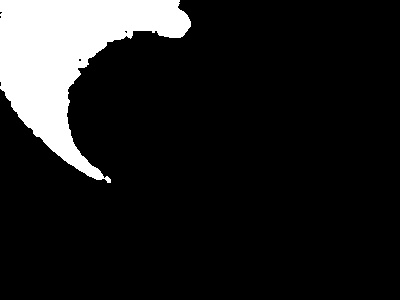
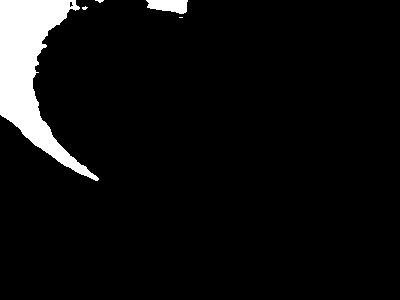
Different version without Random generator - easily offset range applied

Changed region(s): [[0.0, 0.0, 0.48, 0.6]]

diff --git a/ColorDetector.java b/ColorDetector.java
@@ -16,8 +16,6 @@ import static org.bytedeco.javacpp.opencv_core.cvRect;
 import static org.bytedeco.javacpp.opencv_core.cvSetImageROI;
 import static org.bytedeco.javacpp.opencv_core.cvAvg;
 
-import java.awt.Color;
-
 import org.bytedeco.javacpp.opencv_core.CvRect;
 import org.bytedeco.javacpp.opencv_core.CvScalar;
 import org.bytedeco.javacpp.opencv_core.IplImage;
@@ -45,7 +43,7 @@ public class ColorDetector implements Runnable {
 
 		String filename = "";
 		int size = 15; // size of the rectangle
-		int range = 40; // range of colors
+		int range = 30; // range of colors
 
 		// filename = "ColorFades.jpg";
 		// filename = "ColorWall.jpg";
@@ -60,17 +58,12 @@ public class ColorDetector implements Runnable {
 		// gets the mean of the upper-left corner of the Image
 		CvScalar mean = mean(orgImg, 0, 0, size, size);
 
-		Color c_min = minColor(range, mean);
-		Color c_max = maxColor(range, mean);
-
-		System.out.println(c_min + " " + mean + " " + c_max);
-
 		IplImage imgThreshold = cvCreateImage(cvGetSize(orgImg), 8, 1);
 
-		CvScalar min = cvScalar(c_min.getBlue(), c_min.getGreen(),
-				c_min.getRed(), 0);
-		CvScalar max = cvScalar(c_max.getBlue(), c_max.getGreen(),
-				c_max.getRed(), 0);
+		CvScalar min = cvScalar(mean.blue() - range, mean.green() - range,
+				mean.red() - range, 0);
+		CvScalar max = cvScalar(mean.blue() + range, mean.green() + range,
+				mean.red() + range, 0);
 
 		cvInRangeS(orgImg, min, max, imgThreshold);
 		cvSmooth(imgThreshold, imgThreshold, CV_MEDIAN, 15, 0, 0, 0);
@@ -93,30 +86,4 @@ public class ColorDetector implements Runnable {
 
 	}
 
-	Color minColor(int range, CvScalar c) {
-		int min_r = (int) (c.red() + (int) (Math.random() / 2 * range - range));
-		min_r = Math.min(255, Math.max(0, min_r));
-
-		int min_g = (int) (c.green() + (int) (Math.random() / 2 * range - range));
-		min_g = Math.min(255, Math.max(0, min_g));
-
-		int min_b = (int) (c.blue() + (int) (Math.random() / 2 * range - range));
-		min_b = Math.min(255, Math.max(0, min_b));
-
-		return new Color(min_r, min_g, min_b);
-	}
-
-	Color maxColor(int range, CvScalar c) {
-
-		int max_r = (int) (c.red() + (int) (Math.random() * 2 * range + range));
-		max_r = Math.min(255, Math.max(0, max_r));
-
-		int max_g = (int) (c.green() + (int) (Math.random() * 2 * range + range));
-		max_g = Math.min(255, Math.max(0, max_g));
-
-		int max_b = (int) (c.blue() + (int) (Math.random() * 2 * range + range));
-		max_b = Math.min(255, Math.max(0, max_b));
-
-		return new Color(max_r, max_g, max_b);
-	}
 }
